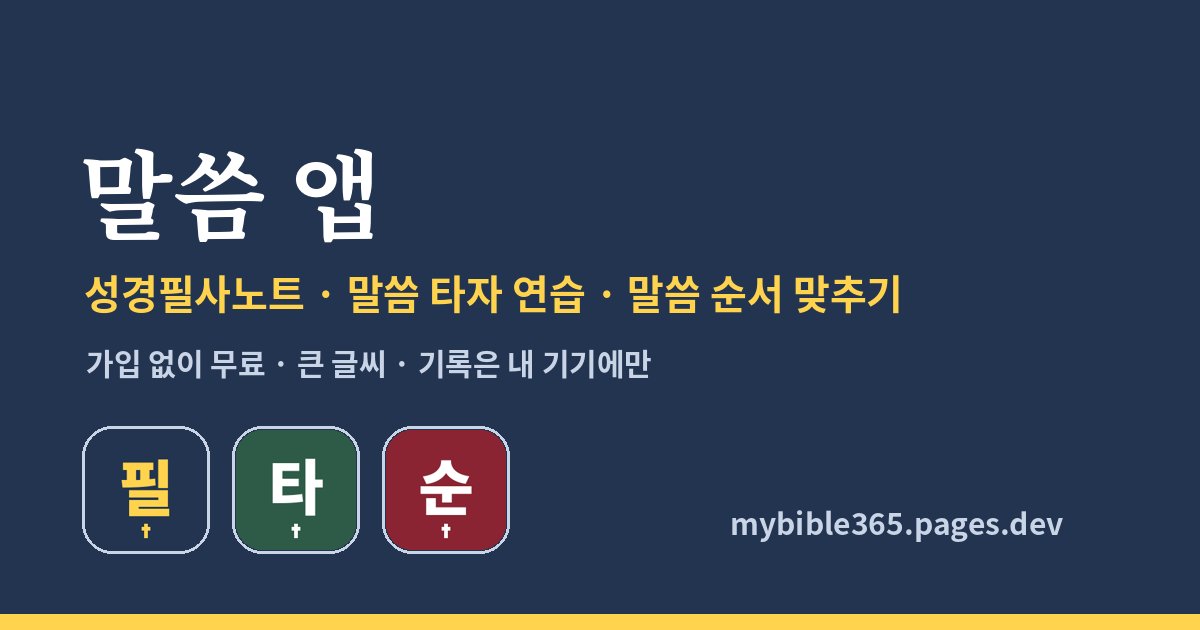
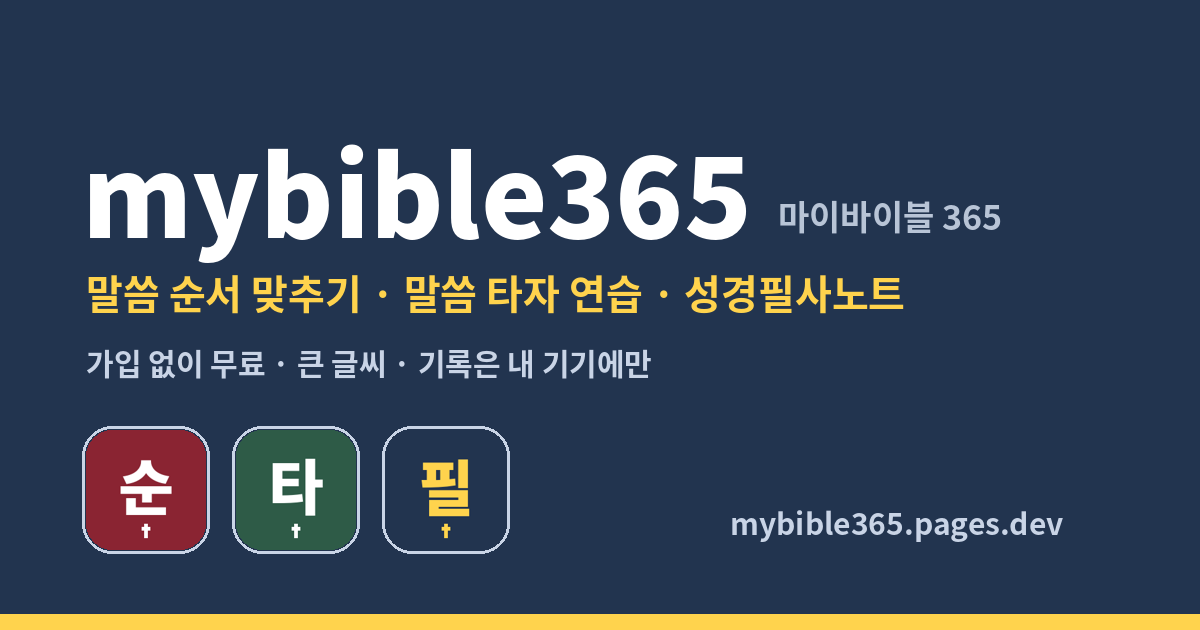
Add files via upload

Changed region(s): [[0.0617, 0.2111, 0.8325, 0.5127], [0.3083, 0.6635, 0.4317, 0.8746], [0.0617, 0.6635, 0.185, 0.8746]]

diff --git a/index.html b/index.html
@@ -4,17 +4,17 @@
 <meta charset="utf-8">
 <meta name="viewport" content="width=device-width, initial-scale=1, viewport-fit=cover">
 <meta property="og:type" content="website">
-<meta property="og:site_name" content="말씀 앱">
-<meta property="og:title" content="말씀 앱">
-<meta property="og:description" content="성경필사노트 · 말씀 타자 연습 · 말씀 순서 맞추기 — 가입 없이 무료로 쓰는 말씀 앱">
+<meta property="og:site_name" content="mybible365">
+<meta property="og:title" content="mybible365 · 마이바이블 365">
+<meta property="og:description" content="말씀 순서 맞추기 · 말씀 타자 연습 · 성경필사노트 — 가입 없이 무료로 쓰는 mybible365">
 <meta property="og:url" content="https://mybible365.pages.dev/">
-<meta property="og:image" content="https://mybible365.pages.dev/og-image.png">
+<meta property="og:image" content="https://mybible365.pages.dev/og-image.png?v=2">
 <meta property="og:image:width" content="1200">
 <meta property="og:image:height" content="630">
 <meta name="twitter:card" content="summary_large_image">
 
-<title>말씀 앱 · 성경필사노트</title>
-<meta name="description" content="성경필사노트 · 말씀 타자 연습 · 말씀 순서 맞추기. 가입 없이 무료로 쓰는 말씀 앱">
+<title>mybible365 · 마이바이블 365</title>
+<meta name="description" content="말씀 순서 맞추기 · 말씀 타자 연습 · 성경필사노트. 가입 없이 무료로 쓰는 mybible365">
 <link rel="icon" href="bible-note/icon-192.png">
 <meta name="theme-color" content="#22344f">
 <style>
@@ -23,18 +23,21 @@
 *{box-sizing:border-box}
 body{margin:0;background:var(--bg);color:var(--ink);font:18px/1.7 "Malgun Gothic","Apple SD Gothic Neo","Noto Sans KR",sans-serif}
 .wrap{max-width:880px;margin:0 auto;padding:28px 16px 40px}
-h1{font:700 34px/1.3 "Batang","AppleMyungjo","Noto Serif KR",serif;margin:6px 0 6px}
+h1 small{font:700 18px/1 "Malgun Gothic","Apple SD Gothic Neo","Noto Sans KR",sans-serif;color:var(--soft);margin-left:10px;letter-spacing:0}
+h1{font:800 36px/1.3 "Malgun Gothic","Apple SD Gothic Neo","Noto Sans KR",sans-serif;letter-spacing:-.01em;margin:6px 0 6px}
 .lead{color:var(--soft);margin:0 0 24px}
 .q{background:var(--paper);border:1px solid var(--line);border-radius:18px;padding:20px 22px;margin-bottom:22px}
 .q h2{font-size:21px;margin:0 0 10px}
 .q ul{margin:0;padding-left:20px}
 .q li{margin:4px 0}
+.stair{margin:0 0 12px;color:var(--soft);font-size:16px}
 .cards{display:grid;gap:16px}
 .card{display:grid;grid-template-columns:72px 1fr auto;gap:18px;align-items:center;background:var(--paper);border:2px solid var(--line);border-radius:18px;padding:18px 20px;text-decoration:none;color:inherit;transition:border-color .15s,transform .15s}
 .card:hover,.card:focus-visible{border-color:var(--navy);transform:translateY(-2px);outline:none}
 .card img{width:72px;height:72px;border-radius:16px}
 .card h3{margin:0;font:700 24px/1.35 "Batang","AppleMyungjo","Noto Serif KR",serif}
 .card p{margin:2px 0 0;color:var(--soft);font-size:16px}
+.step{display:block;font:700 14px/1.4 "Malgun Gothic","Apple SD Gothic Neo","Noto Sans KR",sans-serif;color:var(--soft);margin-bottom:2px}
 .dev{display:inline-block;font-size:14px;font-weight:700;border-radius:99px;padding:2px 10px;margin-top:6px;background:color-mix(in srgb,var(--navy) 14%,transparent);color:var(--navy)}
 .dev.pc{background:color-mix(in srgb,var(--gold) 20%,transparent);color:var(--gold)}
 .go{font-weight:700;color:var(--navy);white-space:nowrap}
@@ -49,38 +52,39 @@ footer b{color:var(--ink)}
 </head>
 <body>
 <div class="wrap">
-  <h1>말씀 앱</h1>
-  <p class="lead">가입도 비용도 없이 쓰는 말씀 앱 세 가지입니다. 기록은 각자의 기기에만 저장됩니다.</p>
+  <h1>mybible365 <small>마이바이블 365</small></h1>
+  <p class="lead">가입도 비용도 없이 쓰는 말씀 앱 세 가지를 모았습니다. 기록은 각자의 기기에만 저장됩니다.</p>
 
   <div class="q">
     <h2>어디서 시작할까요?</h2>
     <ul>
-      <li>자판으로 한글을 막힘없이 치시면 → <b>성경필사노트</b></li>
-      <li>조금 치지만 느리시면 → <b>말씀 타자 연습</b></li>
       <li>컴퓨터가 낯설거나 휴대폰만 쓰시면 → <b>말씀 순서 맞추기</b></li>
+      <li>조금 치지만 느리시면 → <b>말씀 타자 연습</b></li>
+      <li>자판으로 한글을 막힘없이 치시면 → <b>성경필사노트</b></li>
     </ul>
   </div>
 
+  <p class="stair">순서 맞추기 → 타자 연습 → 필사노트, 한 계단씩 올라가요.</p>
   <div class="cards">
-    <a class="card" href="bible-note/">
-      <img src="bible-note/icon-192.png" alt="">
-      <div><h3>성경필사노트</h3><p>PC 자판으로 열 손가락을 써서 말씀을 새기는 필사노트</p><span class="dev pc">컴퓨터에서</span></div>
+    <a class="card" href="order/">
+      <img src="order/icon-192.png" alt="">
+      <div><h3><span class="step">1단계</span>말씀 순서 맞추기</h3><p>섞인 말씀 조각을 순서대로 눌러 완성해요. 마우스나 손가락만 있으면 됩니다</p><span class="dev">휴대폰 · 컴퓨터</span></div>
       <span class="go">열기 →</span>
     </a>
     <a class="card" href="typing/">
       <img src="typing/icon-192.png" alt="">
-      <div><h3>말씀 타자 연습</h3><p>말씀으로 한글 자판 자리를 익히고, 만나 줍기 놀이로 손을 풀어요</p><span class="dev pc">컴퓨터에서</span></div>
+      <div><h3><span class="step">2단계</span>말씀 타자 연습</h3><p>말씀으로 한글 자판 자리를 익히고, 만나 줍기 놀이로 손을 풀어요</p><span class="dev pc">컴퓨터에서</span></div>
       <span class="go">열기 →</span>
     </a>
-    <a class="card" href="order/">
-      <img src="order/icon-192.png" alt="">
-      <div><h3>말씀 순서 맞추기</h3><p>섞인 말씀 조각을 순서대로 눌러 완성해요. 마우스나 손가락만 있으면 됩니다</p><span class="dev">휴대폰 · 컴퓨터</span></div>
+    <a class="card" href="bible-note/">
+      <img src="bible-note/icon-192.png" alt="">
+      <div><h3><span class="step">3단계</span>성경필사노트</h3><p>PC 자판으로 열 손가락을 써서 말씀을 새기는 필사노트</p><span class="dev pc">컴퓨터에서</span></div>
       <span class="go">열기 →</span>
     </a>
   </div>
 
   <div class="send phone-only">
-    <p style="color:var(--soft);font-size:16px;margin:0 0 10px">필사노트와 타자 연습은 컴퓨터에서 쓰는 앱이에요.<br>이 주소를 카톡 ‘나와의 채팅’으로 보내 두고 컴퓨터에서 열어 보세요.</p>
+    <p style="color:var(--soft);font-size:16px;margin:0 0 10px">타자 연습과 필사노트는 컴퓨터에서 쓰는 앱이에요.<br>이 주소를 카톡 ‘나와의 채팅’으로 보내 두고 컴퓨터에서 열어 보세요.</p>
     <button id="share">📨 이 주소를 내 컴퓨터로 보내기</button>
   </div>
 
@@ -93,7 +97,7 @@ footer b{color:var(--ink)}
 <script>
 document.getElementById('share').onclick=async function(){
   var u=location.origin+location.pathname;
-  if(navigator.share){try{await navigator.share({title:'말씀 앱',text:'컴퓨터에서 열어 보세요',url:u});return}catch(e){if(e&&e.name==='AbortError')return}}
+  if(navigator.share){try{await navigator.share({title:'mybible365',text:'컴퓨터에서 열어 보세요',url:u});return}catch(e){if(e&&e.name==='AbortError')return}}
   try{await navigator.clipboard.writeText(u);alert('주소를 복사했어요.\n카톡 ‘나와의 채팅’에 붙여넣어 보내 두세요.\n\n'+u)}catch(e){prompt('이 주소를 복사해 보내 두세요',u)}
 };
 </script>
